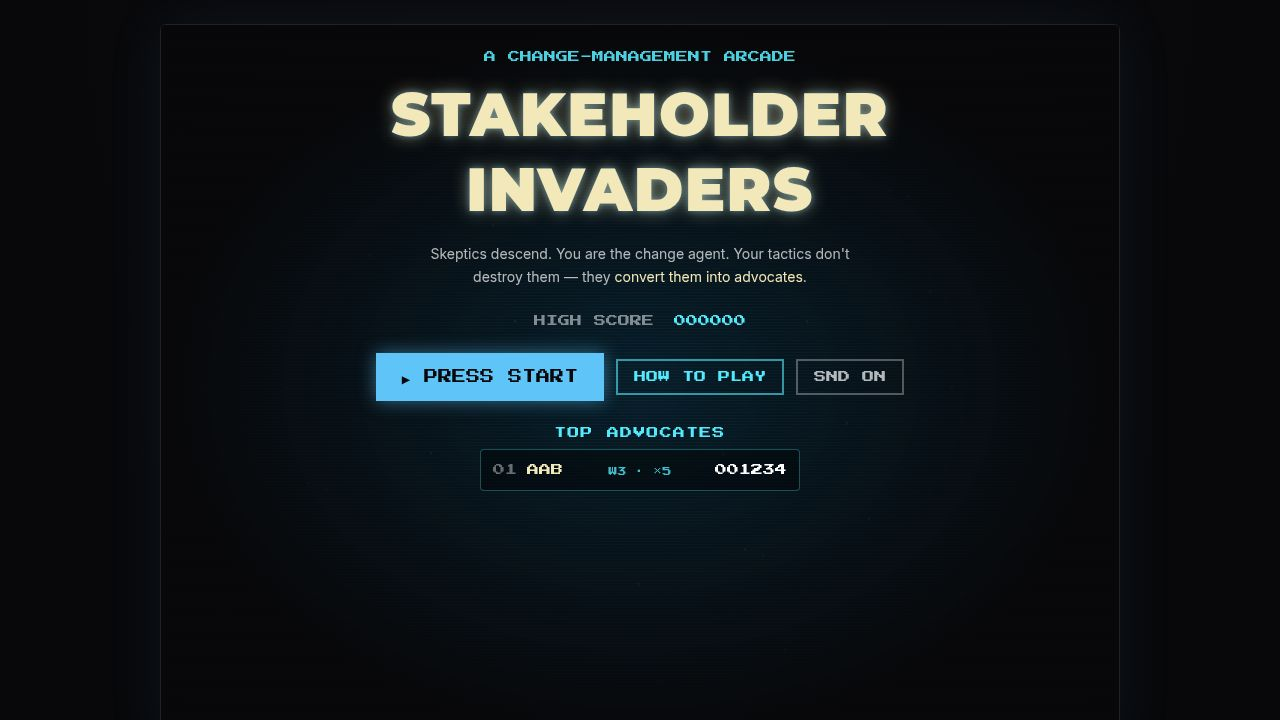
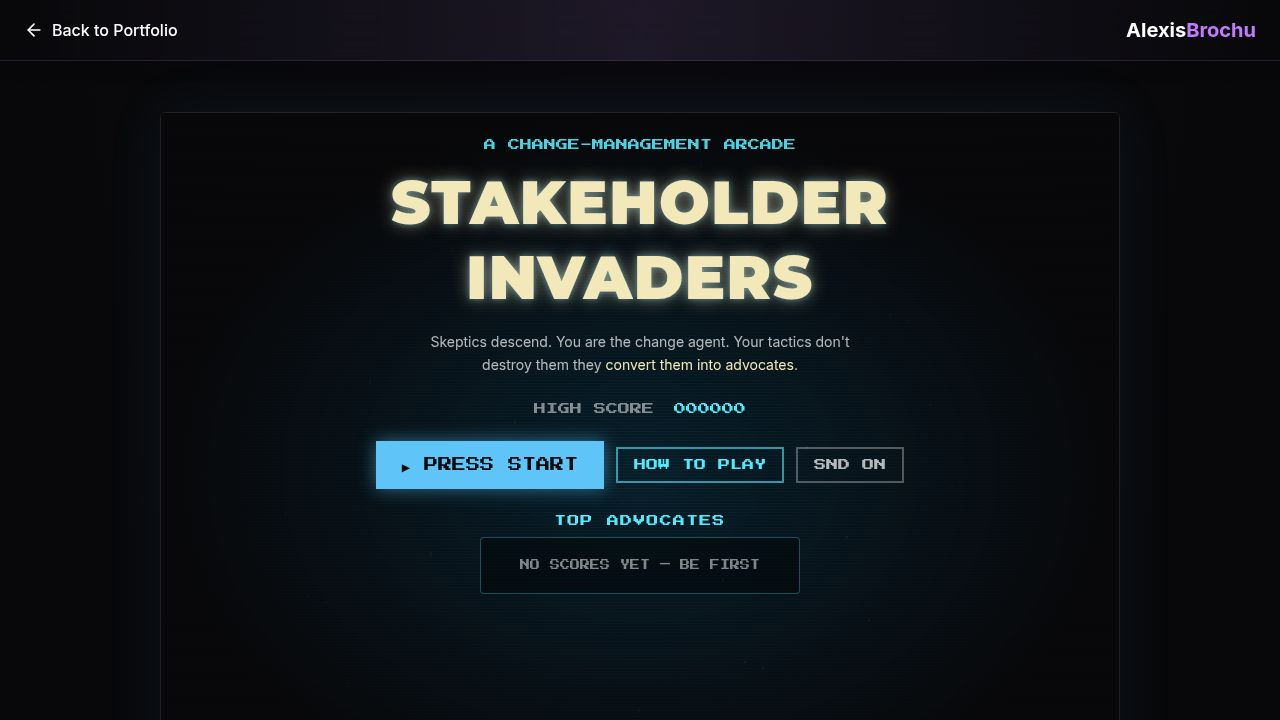
Add portfolio masthead to Stakeholder Invaders (Task #22)
Replaces the small floating "Back to portfolio" pill on the Stakeholder
Invaders game page with the same fixed top navigation bar used on the
portfolio's services page.

Changes (artifacts/stakeholder-invaders/src/App.tsx):
- Imported ArrowLeft from lucide-react.
- Removed the old floating top-left back link.
- Added a fixed top <nav> spanning full width with backdrop-blur, bottom
  border, and shadow.
- Left side: ArrowLeft icon + "Back to Portfolio" link to "/" with hover
  to purple-400, matching services page.
- Right side: "AlexisBrochu" wordmark — "Alexis" white, "Brochu"
  purple-400.
- Added pt-24 sm:pt-28 to the page wrapper so the fixed nav doesn't
  overlap the game frame.

Notes / deviations:
- The stakeholder-invaders artifact has no shadcn theme tokens
  (background/primary), so the gradient and border colors are inlined
  via style attributes using rgba values that visually match the
  portfolio's bg-background → primary/20 → bg-background gradient and
  primary/30 border.
- Used a plain <a href="/"> (not wouter Link) since the cross-artifact
  navigation needs a real document navigation through the proxy.
- Pre-existing typecheck errors in api-client-react/Leaderboard.tsx are
  unrelated and not addressed.

diff --git a/artifacts/stakeholder-invaders/src/App.tsx b/artifacts/stakeholder-invaders/src/App.tsx
@@ -1,4 +1,5 @@
 import { useEffect, useRef, useState, useCallback } from "react";
+import { ArrowLeft } from "lucide-react";
 import { GameCanvas } from "./game/GameCanvas";
 import { StartScreen } from "./game/StartScreen";
 import { GameOverScreen } from "./game/GameOverScreen";
@@ -108,18 +109,34 @@ function App() {
   }, []);
 
   return (
-    <div className="relative min-h-screen w-full overflow-hidden flex flex-col items-center justify-center p-2 sm:p-6"
+    <div className="relative min-h-screen w-full overflow-hidden flex flex-col items-center justify-center p-2 sm:p-6 pt-24 sm:pt-28"
       style={{ background: "radial-gradient(ellipse at top, #0B0A0E 0%, #08080A 70%)" }}>
 
-      <a
-        href="/"
-        className="fixed top-3 left-3 sm:top-4 sm:left-4 z-50 inline-flex items-center gap-2 px-3 py-2 rounded-md border border-cyan-300/30 bg-black/60 backdrop-blur text-cyan-200 hover:text-white hover:border-cyan-200/70 hover:bg-cyan-400/10 transition-colors text-xs sm:text-sm font-sans"
-        data-testid="link-back-to-portfolio"
-        aria-label="Back to portfolio"
+      <nav
+        className="fixed top-0 left-0 right-0 w-full z-50 backdrop-blur-lg border-b shadow-lg"
+        style={{
+          background:
+            "linear-gradient(to right, rgba(8,8,10,0.95) 0%, rgba(109,85,146,0.20) 50%, rgba(8,8,10,0.95) 100%)",
+          borderColor: "rgba(109,85,146,0.30)",
+        }}
       >
-        <span aria-hidden="true">←</span>
-        <span>Back to portfolio</span>
-      </a>
+        <div className="max-w-7xl mx-auto px-6 py-4">
+          <div className="flex justify-between items-center">
+            <a
+              href="/"
+              className="flex items-center gap-2 text-white hover:text-purple-400 transition-colors"
+              data-testid="link-back-to-portfolio"
+            >
+              <ArrowLeft className="w-5 h-5" />
+              <span className="font-medium font-sans">Back to Portfolio</span>
+            </a>
+            <div className="flex items-center font-sans">
+              <span className="text-white font-bold text-xl">Alexis</span>
+              <span className="text-purple-400 font-bold text-xl">Brochu</span>
+            </div>
+          </div>
+        </div>
+      </nav>
 
       <div className="relative w-full max-w-[960px] aspect-[4/3] rounded-md overflow-hidden border border-white/10 shadow-2xl crt"
         style={{ boxShadow: "0 0 60px rgba(95,197,248,0.08), inset 0 0 80px rgba(0,0,0,0.6)" }}>
